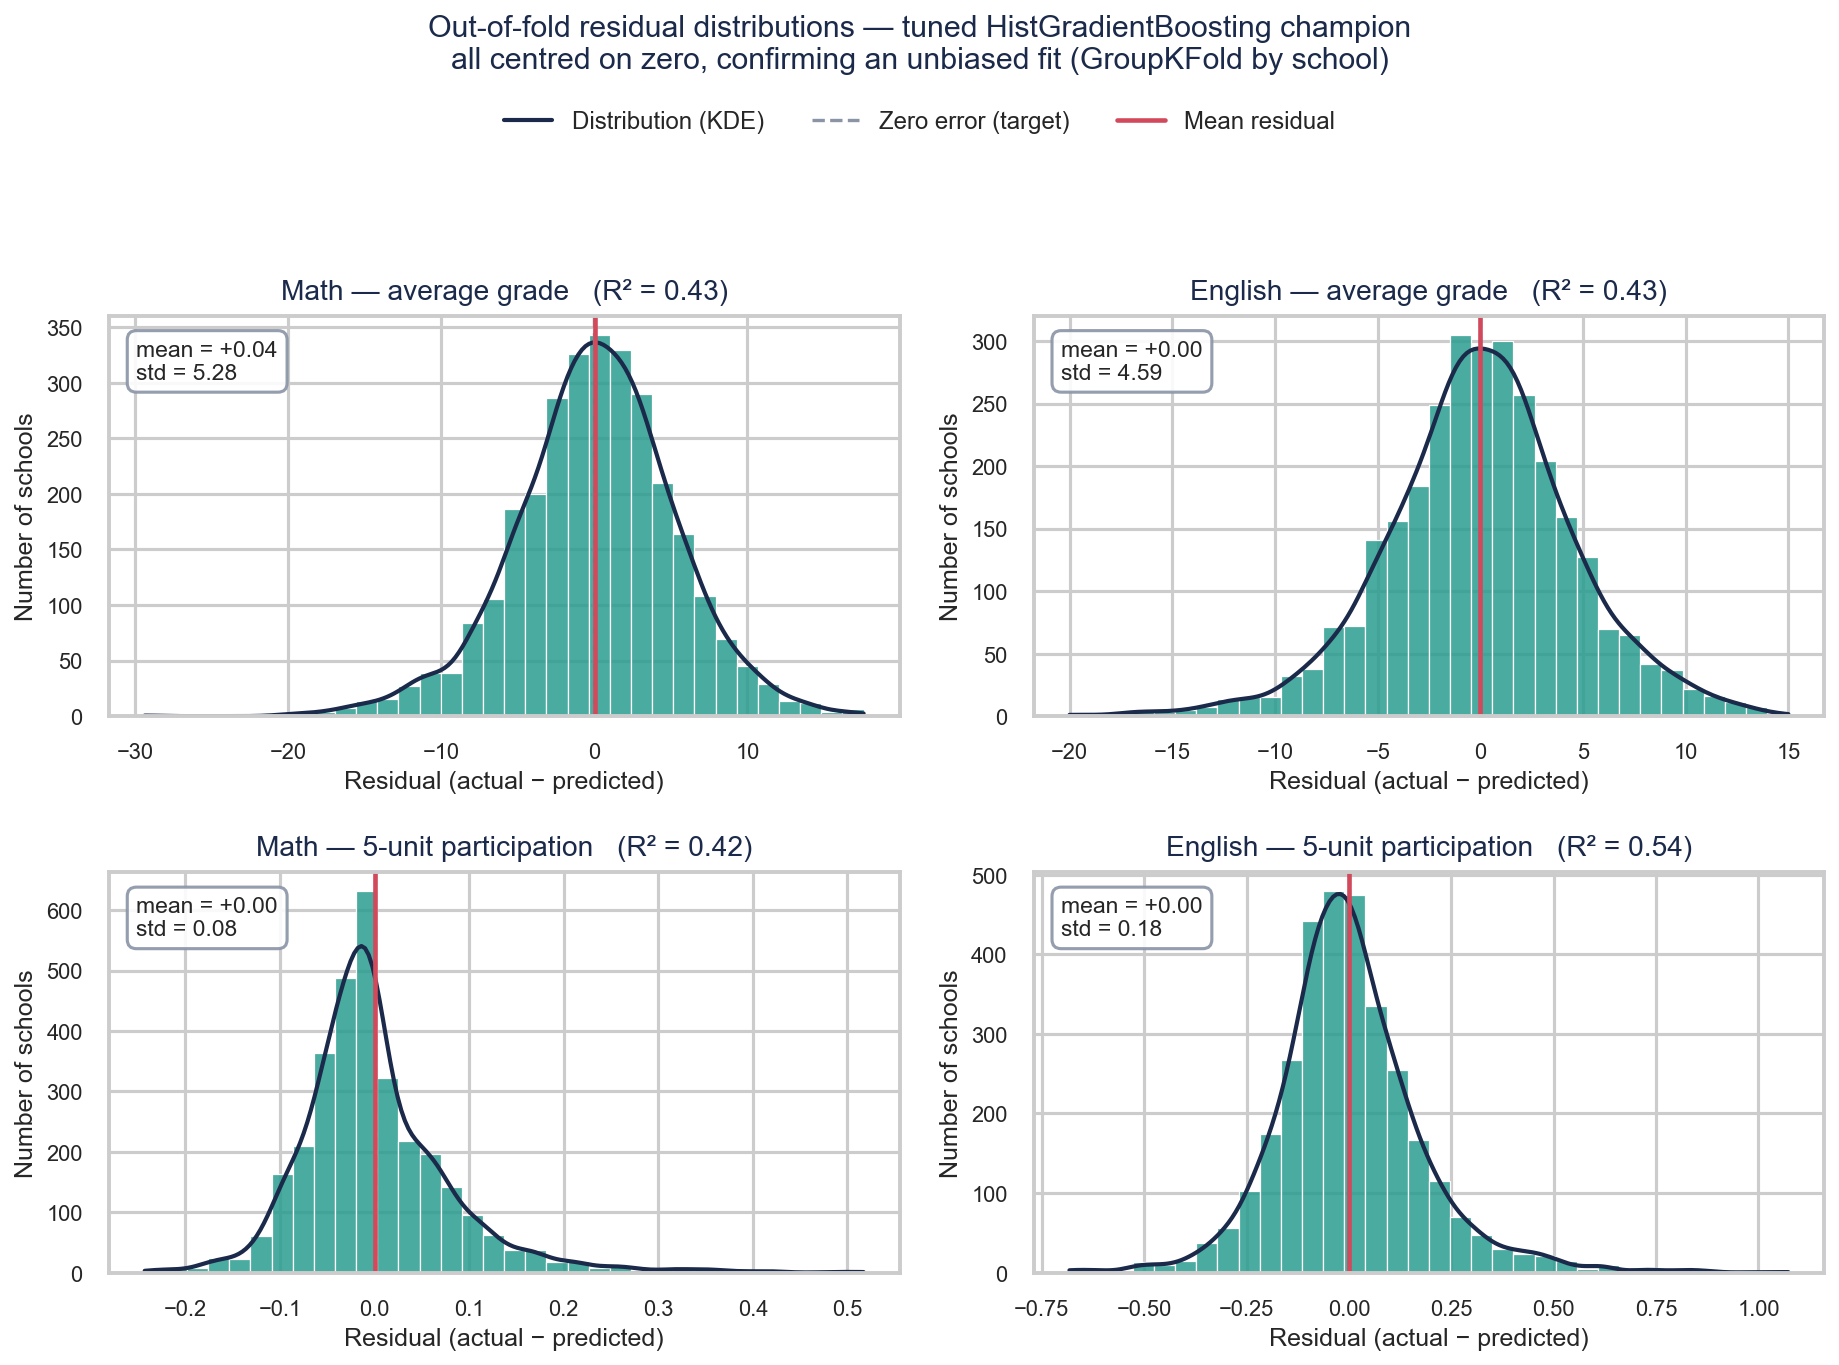
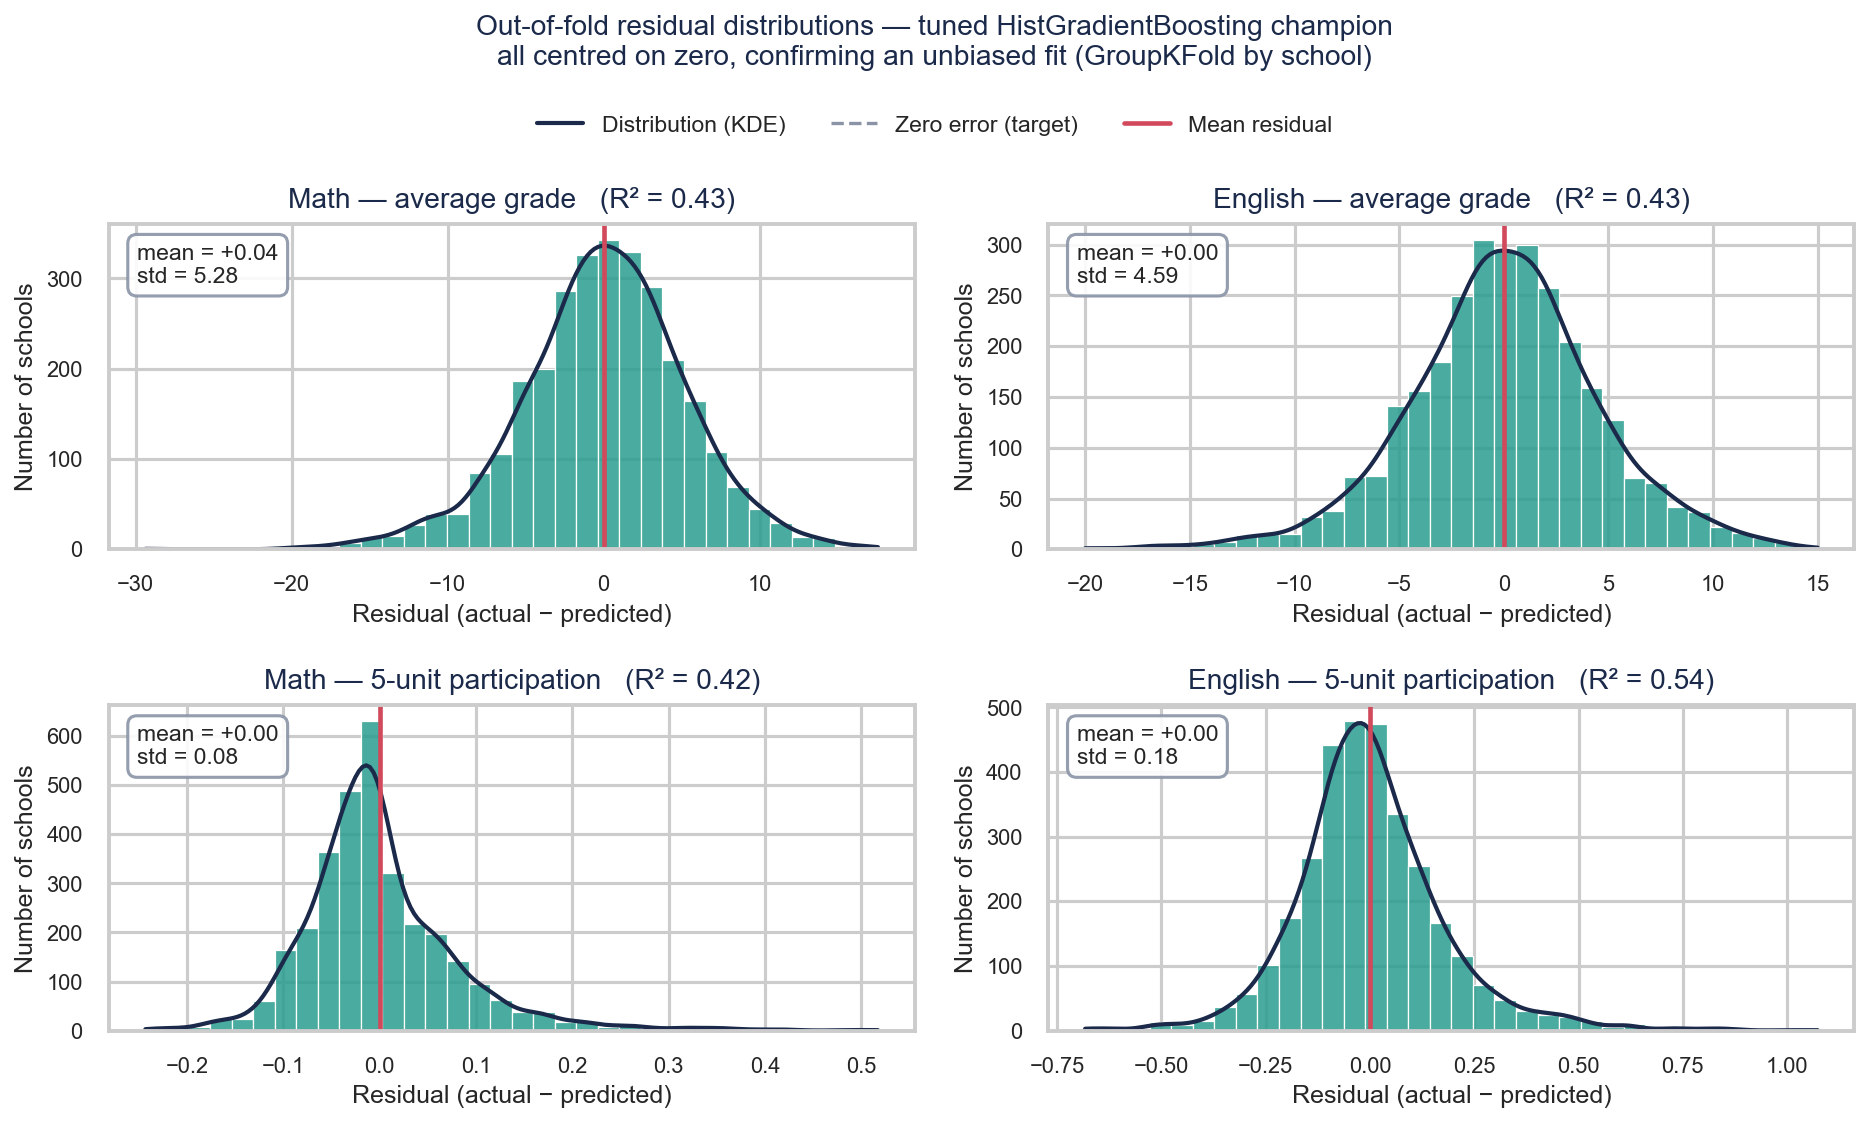
polish(step5): tighter residual histogram layout; feature it in root README
Reduces the figure's vertical whitespace so it reads cleanly and fits the
report page, and adds the residual diagnostic to the root README figure
showcase alongside the leaderboard.

Changed region(s): [[0.0, 0.1558, 1.0, 0.9973], [0.217, 0.0, 0.7749, 0.1247], [0.155, 0.4052, 0.186, 0.4363]]

diff --git a/step_5_predictive_modeling_explainability/code/explain.py b/step_5_predictive_modeling_explainability/code/explain.py
@@ -127,7 +127,7 @@ def plot_residual_histograms(resid_inputs: dict[str, dict], cfg: dict[str, Any],
     out_dir.mkdir(parents=True, exist_ok=True)
     n_splits = cfg["modeling"]["cv_splits"]
 
-    fig, axes = plt.subplots(2, 2, figsize=(12.6, 9.0))
+    fig, axes = plt.subplots(2, 2, figsize=(12.8, 7.6))
     for ax, (target, d) in zip(axes.flat, resid_inputs.items()):
         gkf = GroupKFold(n_splits=n_splits)
         y_pred = cross_val_predict(clone(d["estimator"]), d["X"], d["y"],
@@ -157,12 +157,12 @@ def plot_residual_histograms(resid_inputs: dict[str, dict], cfg: dict[str, Any],
         Line2D([0], [0], color=GREY, lw=1.6, ls="--", label="Zero error (target)"),
         Line2D([0], [0], color=CORAL, lw=2.2, label="Mean residual"),
     ]
+    fig.tight_layout(rect=(0, 0, 1, 0.88))
     fig.legend(handles=legend_handles, loc="upper center", ncol=3,
-               frameon=False, fontsize=11.5, bbox_to_anchor=(0.5, 0.965))
+               frameon=False, fontsize=11, bbox_to_anchor=(0.5, 0.925))
     fig.suptitle("Out-of-fold residual distributions — tuned HistGradientBoosting champion\n"
                  "all centred on zero, confirming an unbiased fit (GroupKFold by school)",
-                 fontsize=14.5, color=NAVY, y=1.02)
-    fig.tight_layout(rect=(0, 0, 1, 0.93))
+                 fontsize=13.5, color=NAVY, y=0.995)
     path = out_dir / "residual_histograms.png"
     fig.savefig(path, dpi=150, bbox_inches="tight")
     plt.close(fig)

diff --git a/README.md b/README.md
@@ -262,6 +262,11 @@ full SES+Budget feature set.
 
 ![Model leaderboard](step_5_predictive_modeling_explainability/graphs/models_performance.png)
 
+**Residual diagnostics** — out-of-fold residuals for every tuned champion are
+centred on zero (unbiased), with each target's spread matching its RMSE.
+
+![Residual histograms](step_5_predictive_modeling_explainability/graphs/residual_histograms.png)
+
 **SHAP explainability** — for the target least explained by SES alone
 (`math_5unit_participation`), school-level attributes (`nurture_quintile`,
 `log_school_size`, `transport_per_student`) outrank the municipal cluster.
